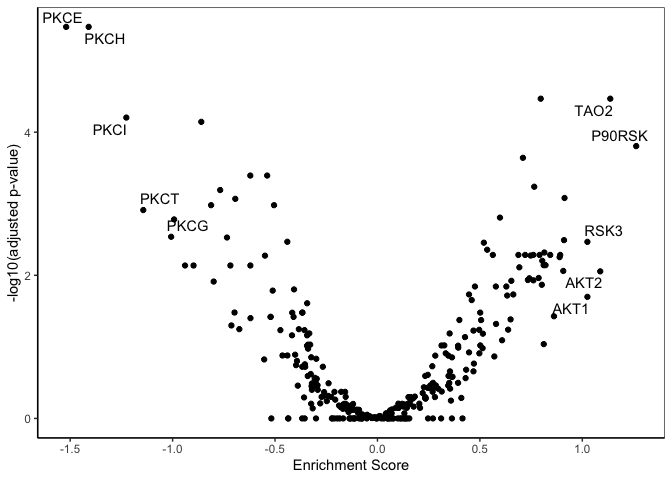
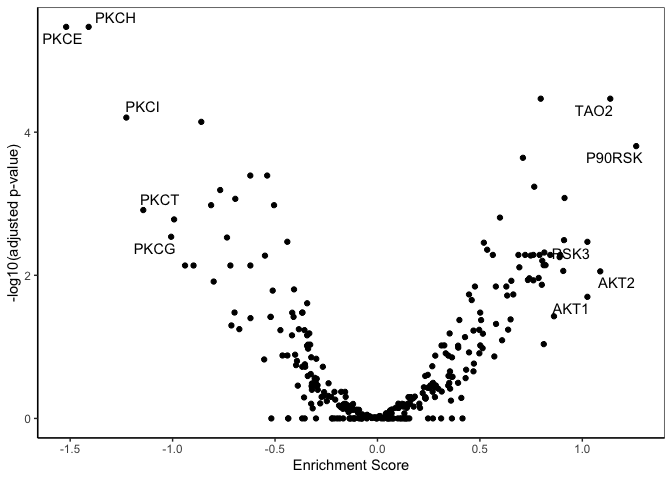
update phospho TMT tutorial

diff --git a/vignettes/phospho_TMT_tutorial.md b/vignettes/phospho_TMT_tutorial.md
@@ -210,7 +210,7 @@ visualize_PTMSEA("/Users/hsiaoyi/Documents/workspace/FragPipeR_manuscript/result
 ``` r
 visualize_PTMSEA("/Users/hsiaoyi/Documents/workspace/FragPipeR_manuscript/result/PTMSEA_new/result/ccRCC-combined.gct",
                  "Tumor_vs_NAT_diff",
-                 selected_concepts=c(# "KINASE-PSP_Akt1/AKT1", "KINASE-PSP_Akt3/AKT3", "KINASE-PSP_Akt2/AKT2",
+                 selected_concepts=c("KINASE-PSP_Akt1/AKT1", "KINASE-PSP_Akt3/AKT3", "KINASE-PSP_Akt2/AKT2",
                                      "KINASE-iKiP_AKT3", "KINASE-iKiP_AKT2", "PATH-WP_PI3K-Akt_signaling_pathway", "KINASE-iKiP_AKT1"))
 ```
 
